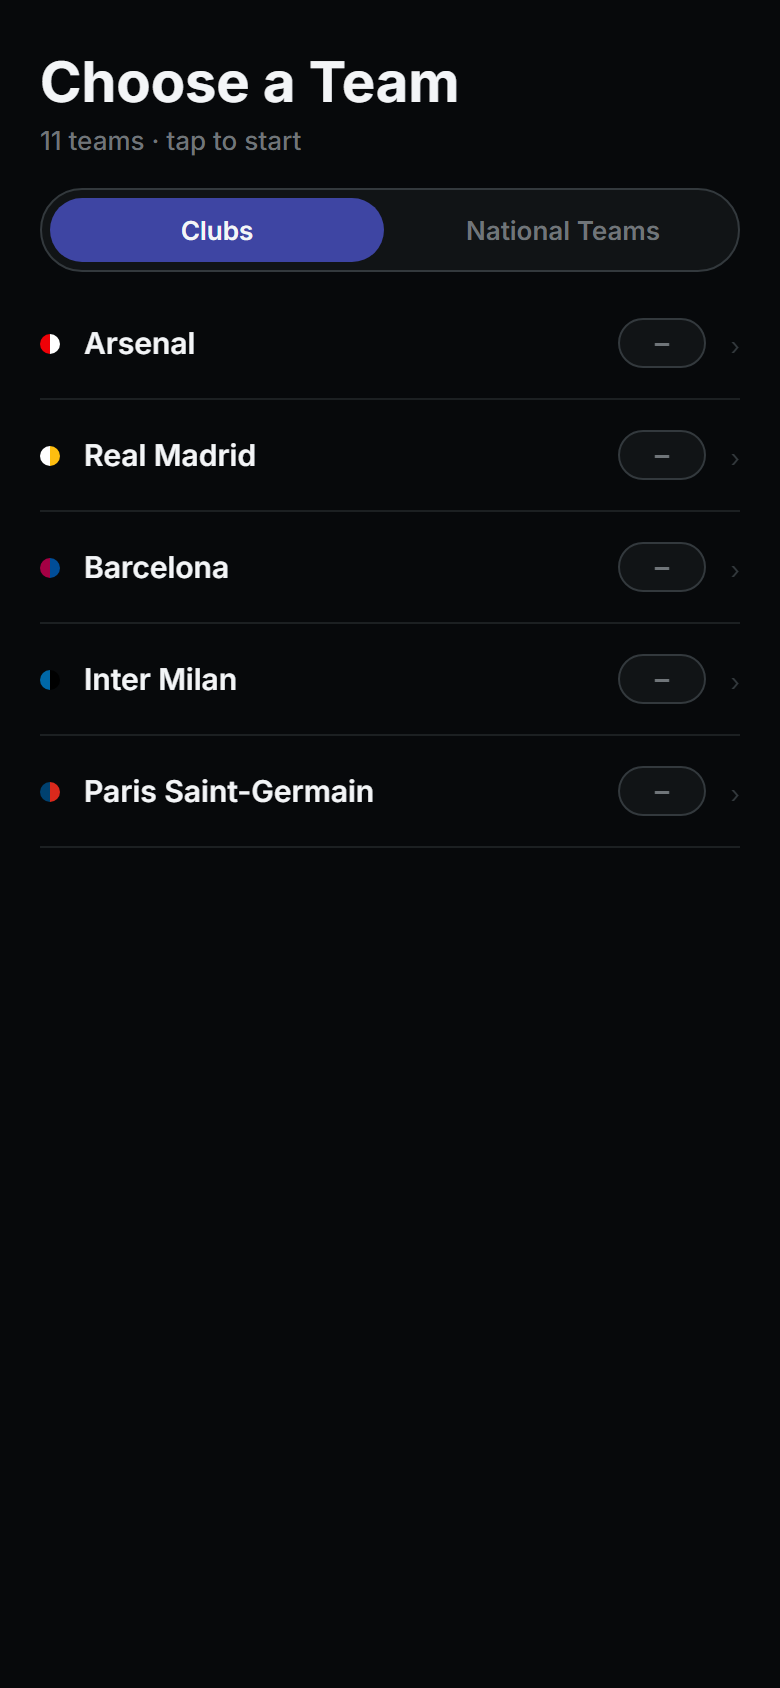
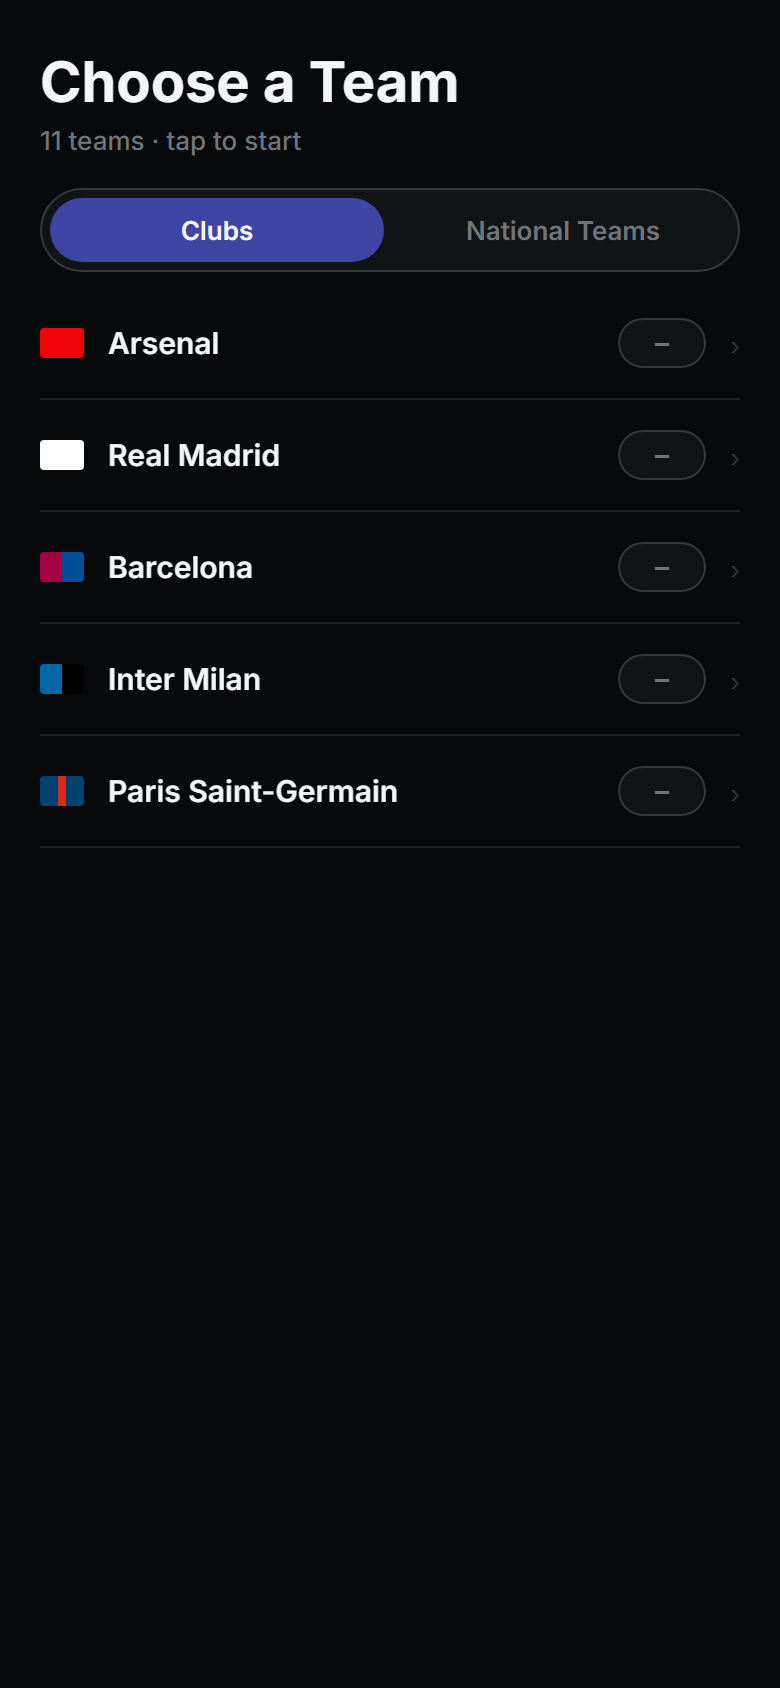
feat(ui): unify club and nation team markers into one banded shape
Clubs now render the same banded-rectangle marker as nations instead of
a 10px split circle, which read as an ambiguous blob and was visually
inconsistent beside the flag markers. Arsenal and Real Madrid render as
a single solid colour rather than a manufactured two-tone split, since
their secondaryColor is trim, not a second identity colour.

Replaces the nation-only Squad.flag with a required Squad.marker on
every squad, backed by one TeamMarker component/type instead of a
kind-branching TeamIdentityDot. Data, tokens, tests, and docs updated
to match.

diff --git a/lib/squads.test.ts b/lib/squads.test.ts
@@ -47,32 +47,36 @@ describe('squad data integrity', () => {
         expect(positions.size).toBeGreaterThan(0);
       });
 
-      if (manifest.kind === 'nation') {
-        it('has flag geometry on both the manifest and the squad file', () => {
-          expect(manifest.flag, 'manifest entry').toBeDefined();
-          expect(getSquad(manifest.id)?.flag, 'squad file').toBeDefined();
-        });
+      // Every squad — club or nation — carries a marker: the app's sole
+      // visual identity element, since crests/badges/shields are never used.
+      // For a nation the marker is the national flag; for a club it's the
+      // club's colours as bands, never an emblem.
+      it('has marker geometry on both the manifest and the squad file', () => {
+        expect(manifest.marker, 'manifest entry').toBeDefined();
+        expect(getSquad(manifest.id)?.marker, 'squad file').toBeDefined();
+      });
 
-        it('has a flag whose bands are valid hex', () => {
-          const flag = manifest.flag;
-          if (!flag) throw new Error('flag must be defined');
-          expect(flag.bands.length).toBeGreaterThan(0);
-          for (const band of flag.bands) expect(band).toMatch(/^#[0-9a-fA-F]{6}$/);
-          if (flag.overlay) expect(flag.overlay.color).toMatch(/^#[0-9a-fA-F]{6}$/);
-        });
+      it('has a marker whose bands are valid hex', () => {
+        const marker = manifest.marker;
+        if (!marker) throw new Error('marker must be defined');
+        expect(marker.bands.length).toBeGreaterThan(0);
+        for (const band of marker.bands) expect(band).toMatch(/^#[0-9a-fA-F]{6}$/);
+        if (marker.overlay) expect(marker.overlay.color).toMatch(/^#[0-9a-fA-F]{6}$/);
+      });
 
-        it('has band weights matching the band count, when weights are given', () => {
-          const flag = manifest.flag;
-          if (!flag) throw new Error('flag must be defined');
-          if (flag.weights) expect(flag.weights.length).toBe(flag.bands.length);
-        });
+      it('has band weights matching the band count, when weights are given', () => {
+        const marker = manifest.marker;
+        if (!marker) throw new Error('marker must be defined');
+        if (marker.weights) expect(marker.weights.length).toBe(marker.bands.length);
+      });
 
-        it('agrees between the manifest and the squad file', () => {
-          expect(getSquad(manifest.id)?.flag).toEqual(manifest.flag);
-        });
-      } else {
-        it('carries no flag — flags identify nations only', () => {
-          expect(manifest.flag).toBeUndefined();
+      it('agrees between the manifest and the squad file', () => {
+        expect(getSquad(manifest.id)?.marker).toEqual(manifest.marker);
+      });
+
+      if (manifest.kind === 'club') {
+        it('never carries an overlay device — those are for national flags only', () => {
+          expect(manifest.marker?.overlay).toBeUndefined();
         });
       }
     });

diff --git a/types/squad.ts b/types/squad.ts
@@ -27,18 +27,26 @@ export interface SquadMember {
   captain?: boolean;
 }
 
-/** A nation's flag as declarative geometry rather than an asset.
+/** A team's sole visual identity element, as declarative geometry rather
+ *  than an asset — every squad, club or nation, carries one.
  *
+ *  For a nation the marker *is* the national flag. National flags are
+ *  exempt from the "no crests, badges, logos or shield shapes" rule: that
+ *  rule exists for trademark exposure, and a flag carries no trademark.
  *  Deliberately not the Unicode regional-indicator emoji (🇦🇷): that depends
  *  on an OS flag-emoji font, and Windows ships none — the Playwright capture
  *  step of the design loop runs on Windows Chrome and would hand the design
  *  side "AR" instead of a flag. Geometry renders identically everywhere.
- *
  *  National emblems and coats of arms are omitted. Spain without its arms is
  *  the civil flag; Argentina without the sun and Brazil without the celestial
  *  globe stay unambiguous at this size, and omitting them keeps the marker
- *  consistent with the app's geometric language. */
-export interface Flag {
+ *  consistent with the app's geometric language.
+ *
+ *  For a club the marker is the club's own colours laid out as bands — never
+ *  an emblem, per the "no crests, ever" constraint. A single-colour club
+ *  (Arsenal, Real Madrid) is a one-entry `bands` array: a plain field, not a
+ *  split shape. */
+export interface TeamMarker {
   /** Band fills, in draw order: top-to-bottom for `horizontal`,
    *  left-to-right for `vertical`. A single-entry array is a plain field. */
   bands: string[];
@@ -60,9 +68,9 @@ export interface Squad {
   primaryColor: string;
   secondaryColor: string;
   verified: boolean; // false = not fact-checked
-  /** Nation squads only. Clubs are identified by colour alone, per the
-   *  "no crests, ever" constraint. */
-  flag?: Flag;
+  /** The team's sole visual identity element — see `TeamMarker`. Present on
+   *  every squad, since crests/badges/shields are never used. */
+  marker: TeamMarker;
   members: SquadMember[];
 }
 
@@ -76,9 +84,9 @@ export interface SquadManifestEntry {
   primaryColor: string;
   secondaryColor: string;
   verified: boolean;
-  /** Nation squads only — mirrors the squad file's `flag`, since the picker
-   *  never imports full squad JSON. Kept in sync by lib/squads.test.ts. */
-  flag?: Flag;
+  /** Mirrors the squad file's `marker`, since the picker never imports full
+   *  squad JSON. Kept in sync by lib/squads.test.ts. */
+  marker: TeamMarker;
 }
 
 /** A squad member joined with their player record. */

diff --git a/components/TeamMarker.tsx b/components/TeamMarker.tsx
@@ -1,0 +1,62 @@
+import React from 'react';
+import { StyleSheet, View } from 'react-native';
+import type { TeamMarker as TeamMarkerData } from '@/types/squad';
+import { sizes } from '@/theme/tokens';
+
+interface TeamMarkerProps {
+  marker: TeamMarkerData;
+}
+
+// A team's only visual identity marker, per the "no crests, ever" constraint.
+// One shape for both kinds: a banded rectangle. For a nation the bands are
+// its national flag; for a club they're its own colours — a single-entry
+// array for a single-colour club (Arsenal, Real Madrid) renders as one solid
+// field, not a split shape.
+export function TeamMarker({ marker }: TeamMarkerProps) {
+  const weights = marker.weights ?? marker.bands.map(() => 1);
+  const total = weights.reduce((sum, w) => sum + w, 0);
+  const overlaySize = sizes.teamMarker.height * sizes.teamMarkerOverlayScale;
+
+  return (
+    <View
+      style={[
+        styles.marker,
+        { flexDirection: marker.orientation === 'horizontal' ? 'column' : 'row' },
+      ]}
+    >
+      {marker.bands.map((band, i) => (
+        <View
+          key={`${band}-${i}`}
+          style={{ flex: (weights[i] ?? 1) / total, backgroundColor: band }}
+        />
+      ))}
+      {marker.overlay && (
+        <View style={styles.overlayWrap} pointerEvents="none">
+          <View
+            style={{
+              width: overlaySize,
+              height: overlaySize,
+              backgroundColor: marker.overlay.color,
+              borderRadius: marker.overlay.shape === 'disc' ? overlaySize / 2 : 0,
+              transform: marker.overlay.shape === 'diamond' ? [{ rotate: '45deg' }] : undefined,
+            }}
+          />
+        </View>
+      )}
+    </View>
+  );
+}
+
+const styles = StyleSheet.create({
+  marker: {
+    width: sizes.teamMarker.width,
+    height: sizes.teamMarker.height,
+    borderRadius: sizes.teamMarkerRadius,
+    overflow: 'hidden',
+  },
+  overlayWrap: {
+    ...StyleSheet.absoluteFillObject,
+    alignItems: 'center',
+    justifyContent: 'center',
+  },
+});

diff --git a/components/TeamRow.tsx b/components/TeamRow.tsx
@@ -1,16 +1,13 @@
 import React from 'react';
 import { Pressable, StyleSheet, Text } from 'react-native';
 import { ScorePill } from './ScorePill';
-import { TeamIdentityDot } from './TeamIdentityDot';
-import type { Flag } from '@/types/squad';
+import { TeamMarker } from './TeamMarker';
+import type { TeamMarker as TeamMarkerData } from '@/types/squad';
 import { colors, iconSize, sizes, spacing, typography } from '@/theme/tokens';
 
 interface TeamRowProps {
   name: string;
-  kind: 'club' | 'nation';
-  primaryColor: string;
-  secondaryColor: string;
-  flag?: Flag;
+  marker: TeamMarkerData;
   best: { correct: number; total: number } | null;
   onPress: () => void;
 }
@@ -19,23 +16,10 @@ interface TeamRowProps {
 // edge is a fixed-width score pill, so both edges stay clean regardless of
 // name length — the identity marker is the team's only visual identifier,
 // per the "no crests, ever" constraint.
-export function TeamRow({
-  name,
-  kind,
-  primaryColor,
-  secondaryColor,
-  flag,
-  best,
-  onPress,
-}: TeamRowProps) {
+export function TeamRow({ name, marker, best, onPress }: TeamRowProps) {
   return (
     <Pressable onPress={onPress} accessibilityRole="button" style={styles.row}>
-      <TeamIdentityDot
-        kind={kind}
-        primaryColor={primaryColor}
-        secondaryColor={secondaryColor}
-        flag={flag}
-      />
+      <TeamMarker marker={marker} />
       <Text style={styles.name} numberOfLines={1}>
         {name}
       </Text>

diff --git a/theme/tokens.ts b/theme/tokens.ts
@@ -168,13 +168,16 @@ export const sizes = {
   // (Continue, Results actions) is 52px.
   controlHeight: 52,
   controlHeightLarge: 56,
+  // Plain colour dot for Home's "continue" card — a different, simpler
+  // element than the team identity marker below.
   teamDot: 10,
-  // A flag needs more area than a colour swatch to read at all, so the nation
-  // marker is larger than the club dot and rectangular rather than round.
-  teamFlag: { width: 22, height: 15 },
-  teamFlagRadius: 2,
-  // Japan's disc and Brazil's diamond, as a fraction of the flag's height.
-  teamFlagOverlayScale: 0.6,
+  // The team identity marker — a banded rectangle, shared shape for both
+  // clubs and nations. Needs more area than a small swatch to read the bands
+  // at all, so it's larger than teamDot and rectangular rather than round.
+  teamMarker: { width: 22, height: 15 },
+  teamMarkerRadius: 2,
+  // Japan's disc and Brazil's diamond, as a fraction of the marker's height.
+  teamMarkerOverlayScale: 0.6,
   // Escuadra wordmark's mark, matching the 30px mark beside 23px type in the
   // design source's lockup.
   wordmarkMark: 30,

diff --git a/app/team-picker.tsx b/app/team-picker.tsx
@@ -49,10 +49,7 @@ export default function TeamPicker() {
         renderItem={({ item }) => (
           <TeamRow
             name={item.name}
-            kind={item.kind}
-            primaryColor={item.primaryColor}
-            secondaryColor={item.secondaryColor}
-            flag={item.flag}
+            marker={item.marker}
             best={bestFor(item.id)}
             onPress={() =>
               router.push({ pathname: '/team/[squadId]/difficulty', params: { squadId: item.id } })

diff --git a/lib/questionEngine.test.ts b/lib/questionEngine.test.ts
@@ -26,6 +26,7 @@ function squad(overrides: Partial<Squad> = {}): Squad {
     primaryColor: '#EF0107',
     secondaryColor: '#FFFFFF',
     verified: false,
+    marker: { bands: ['#EF0107'], orientation: 'vertical' },
     members: [],
     ...overrides,
   };

diff --git a/stores/session.test.ts b/stores/session.test.ts
@@ -33,6 +33,7 @@ const squad: Squad = {
   primaryColor: '#EF0107',
   secondaryColor: '#FFFFFF',
   verified: false,
+  marker: { bands: ['#EF0107'], orientation: 'vertical' },
   members: [],
 };
 

diff --git a/.claude/skills/squad-updater/SKILL.md b/.claude/skills/squad-updater/SKILL.md
@@ -97,18 +97,29 @@ roster.
      birth from their own Wikipedia infobox rather than leaving it blank.
 
 8. **Write `data/squads/<id>.json`**, matching the existing shape exactly:
-   `id, kind, name, season, primaryColor, secondaryColor, verified, flag?, members`.
+   `id, kind, name, season, primaryColor, secondaryColor, verified, marker, members`.
    `members` is `[{ playerId, no, captain? }]` — shirt number lives on the
    membership, never on the player.
 
-   - `flag` — **nation squads only.** Declarative band geometry, not an asset and
-     not an emoji: `{ bands: string[], orientation: 'horizontal' | 'vertical',
+   - `marker` — **required on every squad**, club or nation alike; it's the
+     team's sole visual identity element, since crests/badges/shields are
+     never used. Declarative band geometry, not an asset and not an emoji:
+     `{ bands: string[], orientation: 'horizontal' | 'vertical',
 weights?: number[], overlay?: { shape: 'disc' | 'diamond', color: string } }`.
      Bands run top-to-bottom for `horizontal`, left-to-right for `vertical`.
-     Omit `weights` for equal bands. National emblems and coats of arms are
-     omitted by design — use the plain field. The same object must be copied into
-     the matching `data/index.json` entry; `lib/squads.test.ts` compares them.
-     Hand-check flag colours against a real source rather than generating them.
+     Omit `weights` for equal bands.
+     - **Nation squads**: the marker _is_ the national flag. National
+       emblems and coats of arms are omitted by design — use the plain
+       field. `overlay` is for a centred device on a flag (Japan's disc,
+       Brazil's diamond) — clubs never carry one.
+     - **Club squads**: the marker is the club's own colours as bands —
+       never an emblem, per the "no crests, ever" constraint. A
+       single-colour club (e.g. Arsenal, Real Madrid) gets a one-entry
+       `bands` array, not a two-tone split; don't manufacture a second
+       band from a trim colour that isn't a real second identity colour.
+       The same object must be copied into the matching `data/index.json`
+       entry; `lib/squads.test.ts` compares them. Hand-check marker colours
+       against a real source rather than generating them.
 
 9. **Set `verified: false`.** Always — for a brand-new squad and for one
    you're overwriting, even if it was previously `true`. Scraping + LLM

diff --git a/design/SCREENS.md b/design/SCREENS.md
@@ -31,9 +31,11 @@ deliberate constraint is distinguishable from an accident.
    v1, so the question screen keeps a hero slot that a square portrait can drop
    into without a redesign. It currently holds a large shirt number.
 2. **No club crests, badges, logos or shield shapes. Ever.** Trademark
-   exposure. Clubs are identified by text and colour alone. National flags are
-   not covered by this rule — flags carry no trademark — and are used
-   deliberately as the nation identity marker.
+   exposure. Clubs are identified by text and colour, drawn as banded
+   rectangles — the same marker shape used for national flags. National
+   flags are not covered by this rule — flags carry no trademark — and are
+   used deliberately as the nation identity marker; the rendering is unified
+   under one `TeamMarker` concept for both kinds.
 3. **No text input anywhere. No keyboard.** Every answer is a tap: option cards
    and chip selectors are the entire input vocabulary. Typing player names on a
    phone is the worst possible version of this app.
